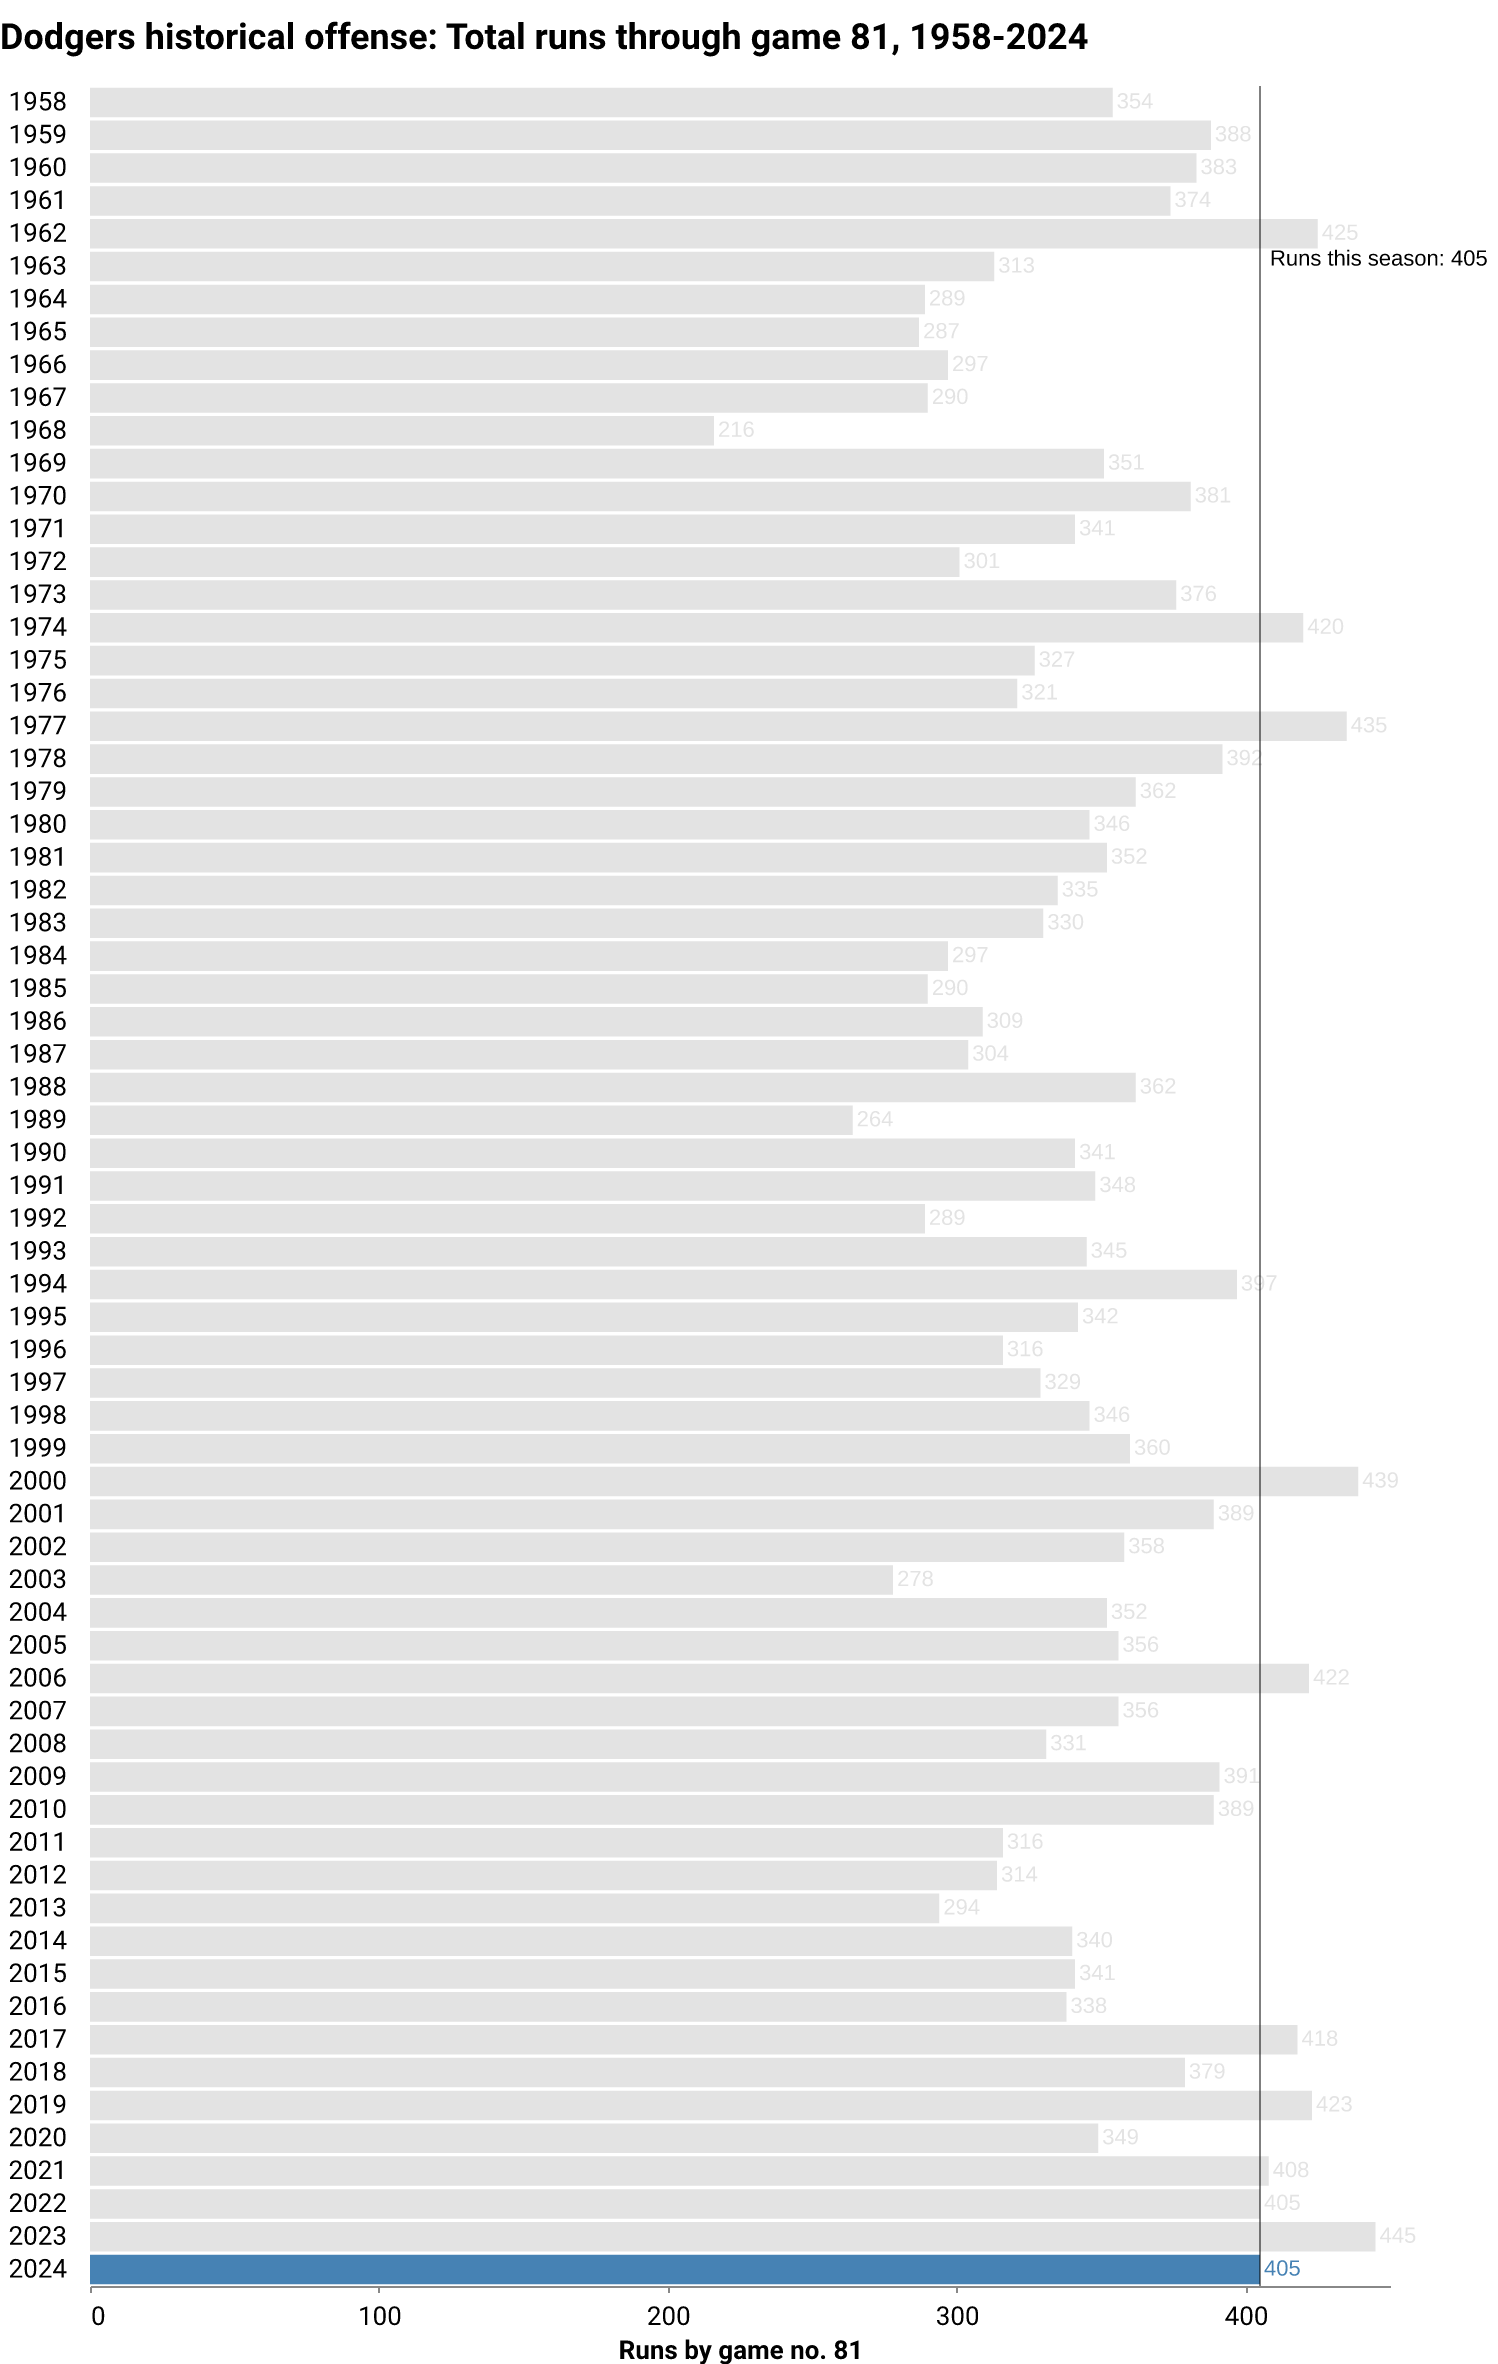
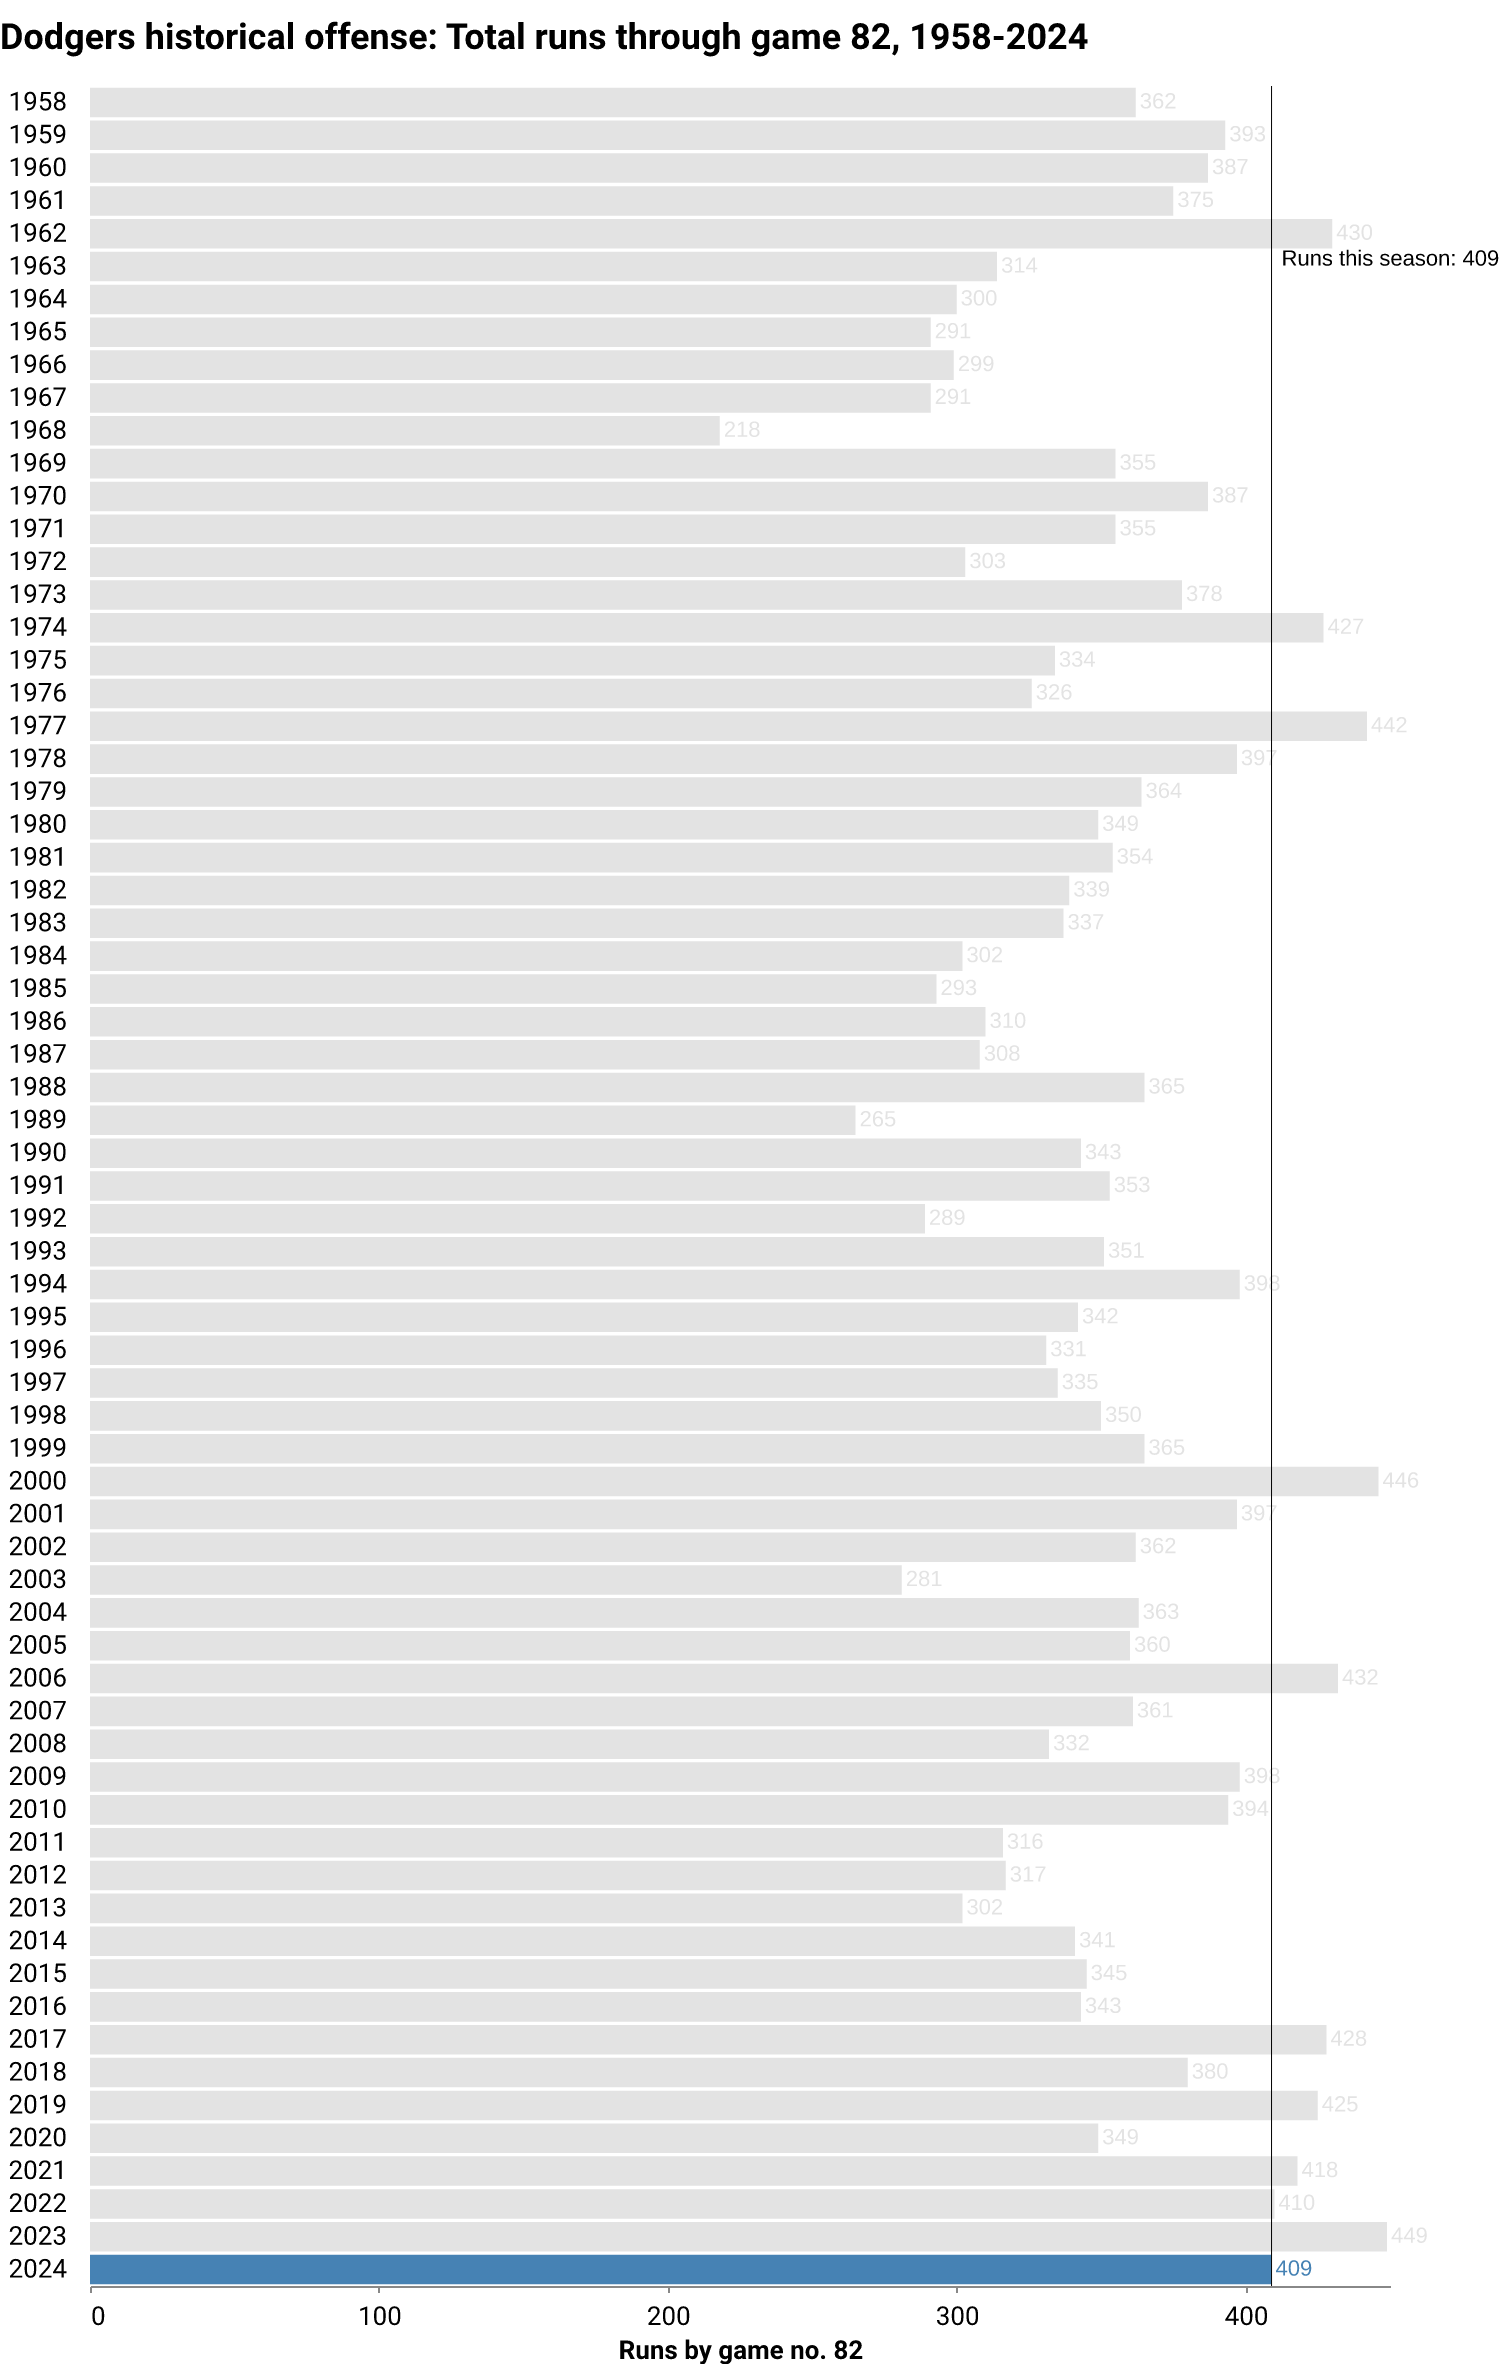
deploy: 1118be44390985f788784b2c68e9c563d08ddef7

diff --git a/index.html b/index.html
@@ -184,7 +184,7 @@
 <p class="subhead">
     
     
-    <span class="highlight">LOS ANGELES</span> <span class="updated">(June 27)</span> — After <span class="highlight">81</span> games this season, the Dodgers are in <span class="highlight">1st</span> place in the National League West division. The team has compiled a <span class="highlight">50-31</span> record, winning <span class="highlight">62%</span> of its games so far. The last game was a <span class="highlight">4-3</span> away <span class="highlight">win</span> against the Chicago White Sox in front of <span class="highlight">23,662</span> fans. They've won <span class="highlight">7 of the last 10</span>.
+    <span class="highlight">LOS ANGELES</span> <span class="updated">(June 27)</span> — After <span class="highlight">82</span> games this season, the Dodgers are in <span class="highlight">1st</span> place in the National League West division. The team has compiled a <span class="highlight">51-31</span> record, winning <span class="highlight">62%</span> of its games so far. The last game was a <span class="highlight">4-0</span> away <span class="highlight">win</span> against the Chicago White Sox in front of <span class="highlight">36,225</span> fans. They've won <span class="highlight">8 of the last 10</span>.
 </p>
 </div>
 
@@ -206,7 +206,7 @@
             Wins
           </div>
           <div class="card-body">
-            <p class="card-text">50</p>
+            <p class="card-text">51</p>
           </div>
           <div class="card-footer text-muted">
         This point last season: 46
@@ -225,7 +225,7 @@
             <p class="card-text">31</p>
           </div>
           <div class="card-footer text-muted">
-        This point last season: 35
+        This point last season: 36
           </div>
         </div>
       </div>
@@ -238,10 +238,10 @@
             Record
           </div>
           <div class="card-body">
-            <p class="card-text">50-31</p>
+            <p class="card-text">51-31</p>
           </div>
           <div class="card-footer text-muted">
-        This point last season: 46-35
+        This point last season: 46-36
           </div>
         </div>
       </div>
@@ -302,7 +302,7 @@
             Runs
           </div>
           <div class="card-body">
-            <p class="card-text">405</p>
+            <p class="card-text">409</p>
           </div>
           <div class="card-footer text-muted">
         League rank: 1
@@ -321,7 +321,7 @@
             <p class="card-text">289</p>
           </div>
           <div class="card-footer text-muted">
-        This point last season: 377
+        This point last season: 383
           </div>
         </div>
       </div>
@@ -334,10 +334,10 @@
             Run differential
           </div>
           <div class="card-body">
-            <p class="card-text">116</p>
+            <p class="card-text">120</p>
           </div>
           <div class="card-footer text-muted">
-        This point last season: 68
+        This point last season: 66
           </div>
         </div>
       </div>
@@ -408,7 +408,7 @@
             Batting average
           </div>
           <div class="card-body">
-            <p class="card-text">.256</p>
+            <p class="card-text">.255</p>
           </div>
           <div class="card-footer text-muted">
         Last decade average: .253
@@ -424,7 +424,7 @@
             Home runs
           </div>
           <div class="card-body">
-            <p class="card-text">110</p>
+            <p class="card-text">111</p>
           </div>
           <div class="card-footer text-muted">
         League rank: 1
@@ -440,7 +440,7 @@
             Home runs/game
           </div>
           <div class="card-body">
-            <p class="card-text">1.36</p>
+            <p class="card-text">1.35</p>
           </div>
           <div class="card-footer text-muted">
         Last decade average: 1.36
@@ -456,7 +456,7 @@
             On-base percentage
           </div>
           <div class="card-body">
-            <p class="card-text">.336</p>
+            <p class="card-text">.335</p>
           </div>
           <div class="card-footer text-muted">
         Last decade average: .332
@@ -598,7 +598,7 @@
             Strikeouts
           </div>
           <div class="card-body">
-            <p class="card-text">696</p>
+            <p class="card-text">703</p>
           </div>
           <div class="card-footer text-muted">
         League rank: 4
@@ -630,7 +630,7 @@
             ERA
           </div>
           <div class="card-body">
-            <p class="card-text">3.29</p>
+            <p class="card-text">3.25</p>
           </div>
           <div class="card-footer text-muted">
         League rank: 2
@@ -708,7 +708,7 @@
     </div>
 </div>
 
-  <p class="dated">Notes: Last updated June 27, 2024, 12:03 AM PT. More <a href="https://github.com/stiles/dodgers/blob/main/README.md">about the data</a>.</p>
+  <p class="dated">Notes: Last updated June 27, 2024, 4:03 AM PT. More <a href="https://github.com/stiles/dodgers/blob/main/README.md">about the data</a>.</p>
   
 </div>
 
